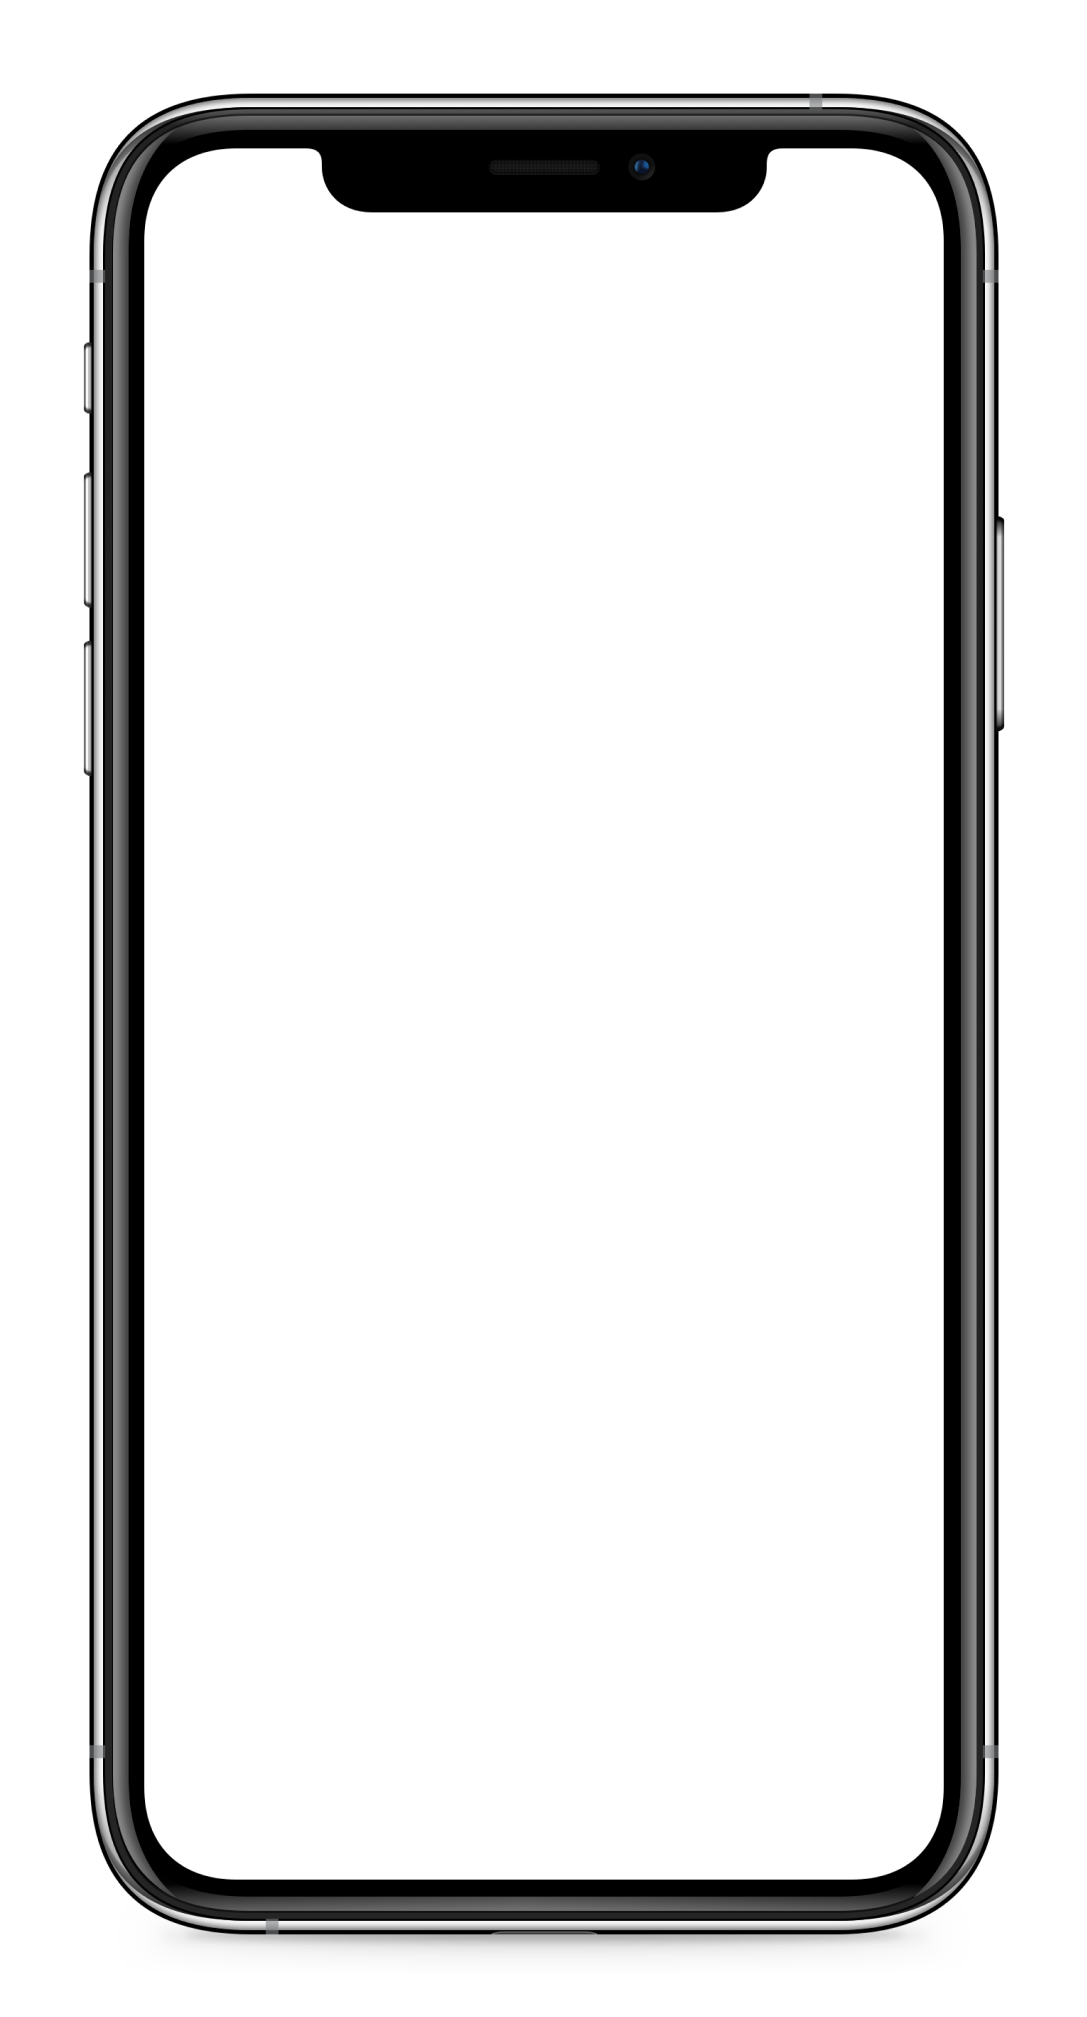
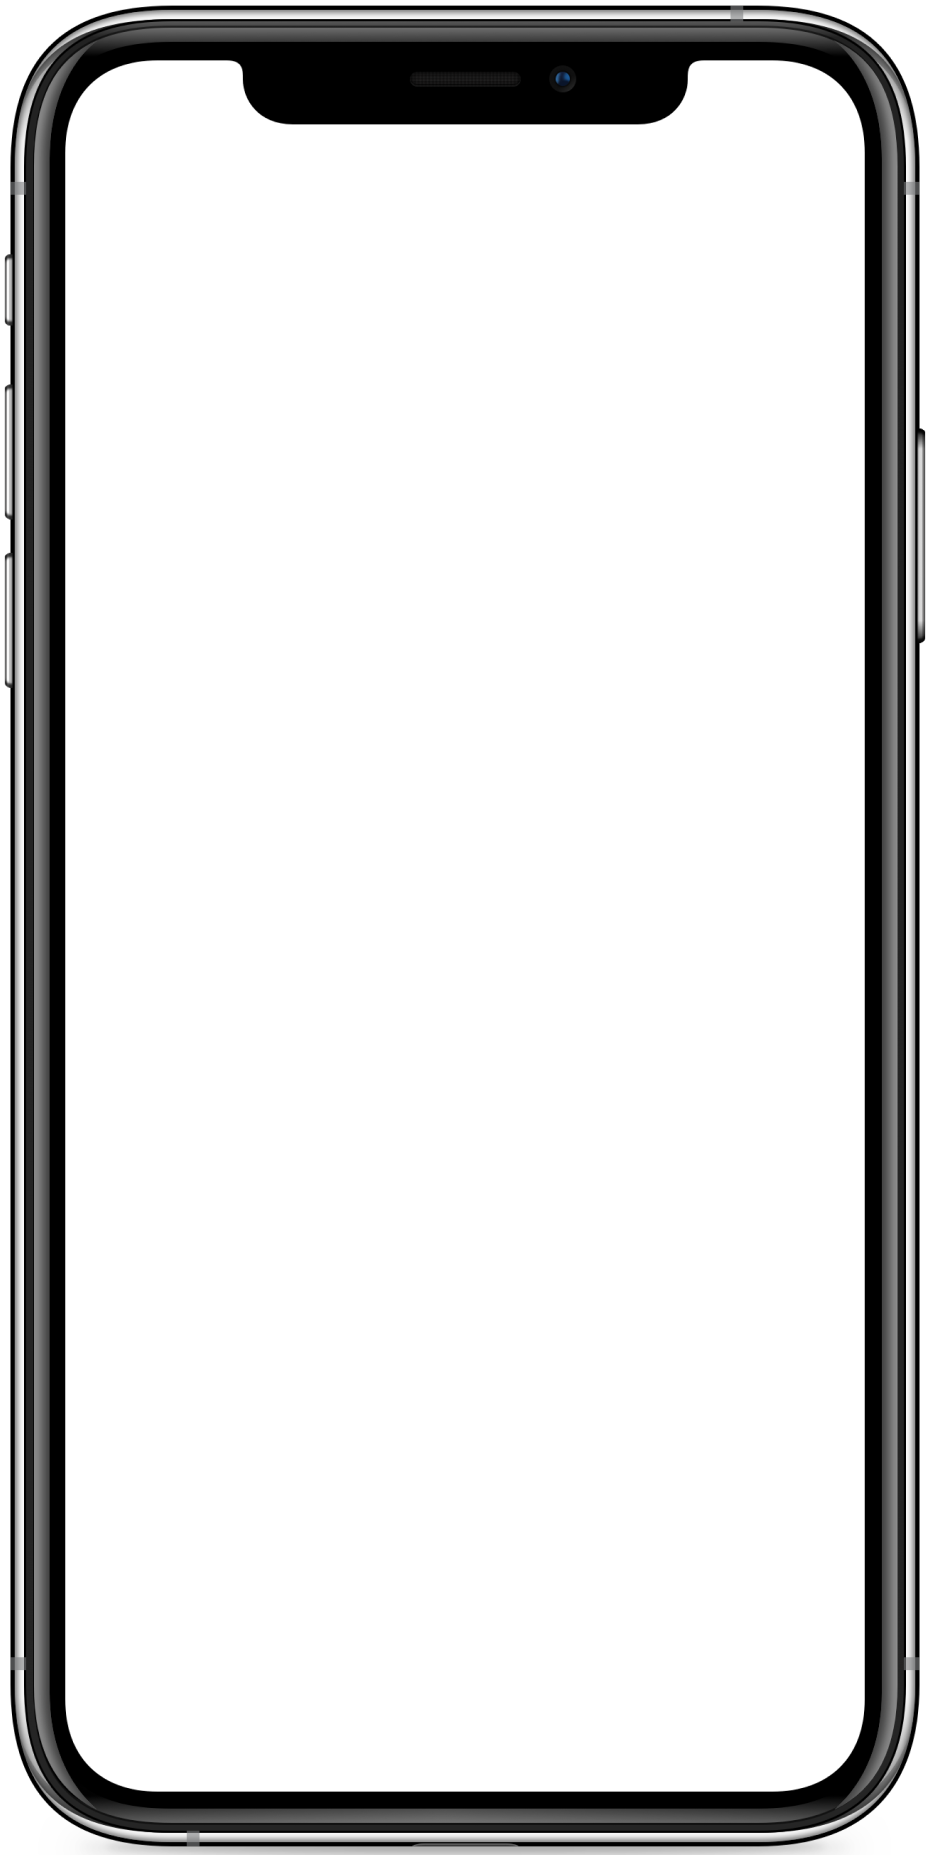
puhelin

diff --git a/src/style.css b/src/style.css
@@ -59,6 +59,30 @@ h2 {
     left: 30px;
 }
 
+.rectangle {
+    display: flex;
+    justify-content: center;
+    align-items: center;
+    width: 250px;
+    height: 500px;
+    background-color: #586675;
+    opacity: 65%;
+    border-radius: 25px;
+    position: relative;
+  }
+  
+.overlay-image {
+    display: flex;
+    justify-content: center;
+    top: 0;
+    left: 0;
+    width: 110%;
+    height: 105%;
+    z-index: 1;
+}
+  
+
+
 /* #metroImg {
     width: 100%;
     height: auto;
@@ -66,6 +90,7 @@ h2 {
     width: 100%;
     min-height: 333px;
 } */
+
 
 #skateImg {
     width: 100%;

diff --git a/src/index.html b/src/index.html
@@ -23,6 +23,13 @@
     
     <div id="fill"></div>
     <!-- <img id="metroImg" src="basicphone 3.png" alt="people at metro stairs with their phones" width="256" height="166"> -->
+
+    <div class="rectangle">
+        <img src="images/iphone.png" class="overlay-image" alt="picture of a phone with text inside to scroll">
+    </div>
+
+    <br><br><br><br><br><br><br><b></b>
+
     <div class="iso">
         <img id="skateImg" src="images/skeittikentta.png" alt="people with their phones at skatefield" width="645" height="416">
         <div class="box">
